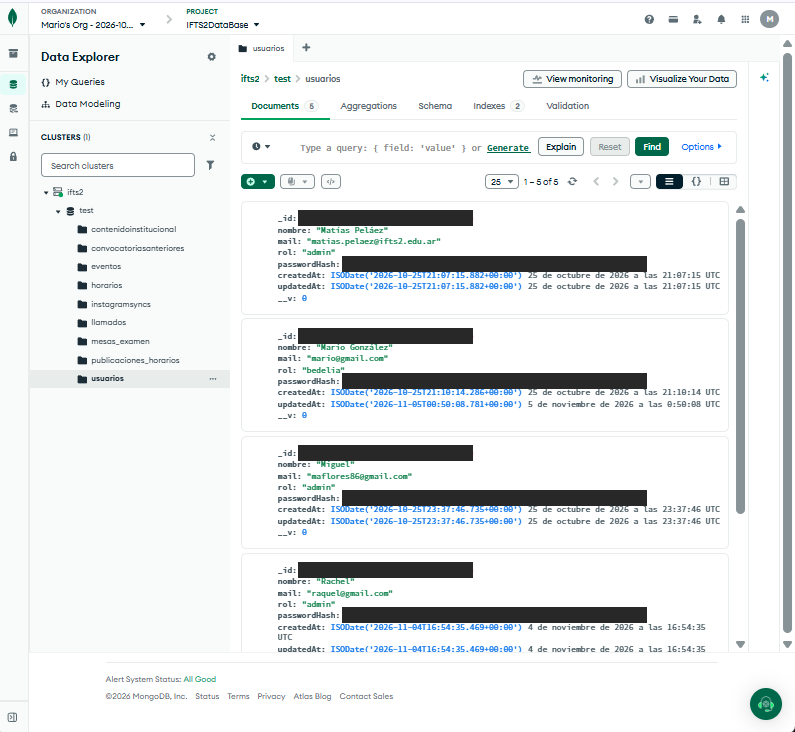
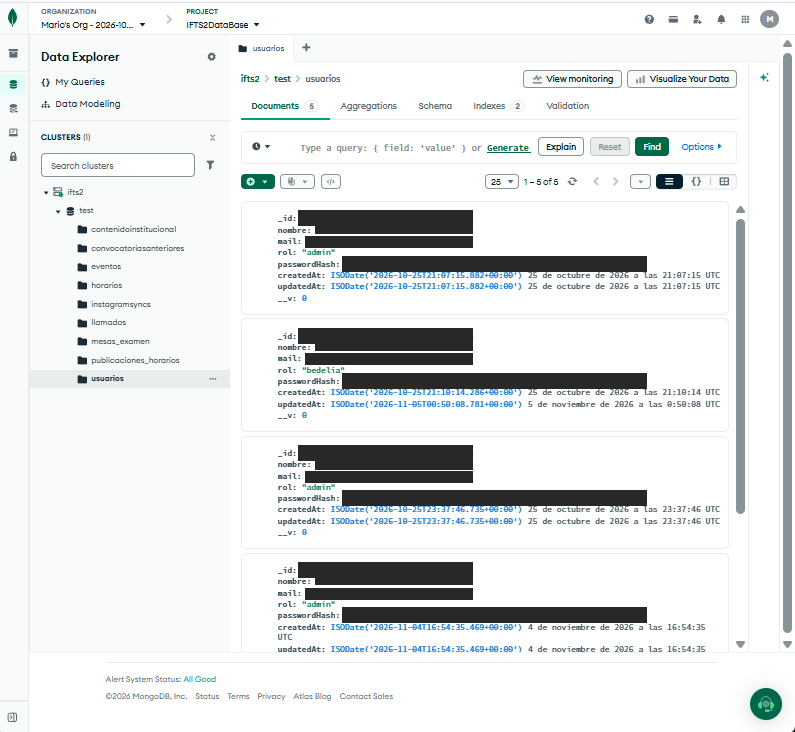
Actualiza la documentación de la base de datos (#42)
Ordena el documento en tablas, suma la captura de eventos y los campos que faltaban, aclara los respaldos y oculta los datos personales de las capturas de usuarios y contenido institucional.

diff --git a/docs/documentacion_mongodb.md b/docs/documentacion_mongodb.md
@@ -1,117 +1,155 @@
-# Documentación del Proyecto de Base de Datos - MongoDB Atlas (IFTS 2)
+# Base de datos en MongoDB Atlas: Portal Web Institucional IFTS N.º 2
 
-Este documento detalla el proceso de despliegue, configuración y la estructura de la base de datos NoSQL implementada en **MongoDB Atlas** para el sistema del **IFTS 2**.
+Este documento describe la configuración del clúster de **MongoDB Atlas** que usa el sitio desplegado (producción y vistas previas de Vercel) y la estructura de su base de datos, con capturas de la consola de Atlas. Las capturas se agregaron al repositorio el 4/11/2026 y muestran el estado de la base en ese momento.
 
----
+El modelo de datos completo (entidades, relaciones y campos de cada colección) está en el [Manual Técnico, apartado 4](./manual-tecnico.md#4-base-de-datos). En desarrollo local el sistema puede funcionar sin esta base, en modo memoria (Manual Técnico, 5.1).
 
-## 1. Despliegue y Configuración del Cluster
-
-### 1.1 Configuración Inicial (`Deploy your cluster`)
-Para el aprovisionamiento de la base de datos se seleccionó la modalidad gratuita en la nube, garantizando un entorno ideal para desarrollo y pruebas sin costes operativos.
-
-* **Nivel de Servicio (Tier):** `Free` (Gratuito)
-  * **Almacenamiento:** 512 MB
-  * **RAM / vCPU:** Compartido (Shared)
-  * **Conexiones Máximas:** 500 conexiones simultáneas
-* **Proveedor de Nube (Cloud Provider):** Amazon Web Services (AWS)
-* **Región:** `N. Virginia (us-east-1)` (Seleccionada por recomendación de baja latencia y menor huella de carbono).
-* **Ajustes de Seguridad y Datos:**
-  * Configuración de seguridad automatizada (`Automate security setup`).
-  * Sin carga de datos de ejemplo predeterminados para mantener un entorno limpio.
+<br>
 
 ---
 
-<img src="img-bbdd/bbdd_deploy_cluster.png" width="" height="" alt="deploy-bbdd-ifts-2"/>
+## 1. Despliegue y configuración del clúster
 
+### 1.1 Configuración inicial
 
-### 1.2 Vista General del Cluster (`Database Overview`)
-Una vez creado el cluster dentro del proyecto `IFTS2DataBase` (Organización `Mario's Org`), la consola principal muestra el estado operativo y las métricas de rendimiento en tiempo real:
+Se eligió el nivel gratuito M0 de Atlas, que permite alojar la base sin costo mientras se respeten los límites del servicio (Manual Técnico, 11).
 
-* **Estado:** `ACTIVE` (En funcionamiento normal).
-* **Uso de Almacenamiento:** `427.24 KB / 512 MB` (Menos del 1% del total disponible).
-* **Versión de MongoDB:** `8.0.36`.
-* **Monitoreo de Rendimiento:**
-  * **Conexiones activas:** Gráfica con picos recientes alcanzando cerca de 45 conexiones activas simultáneas.
-  * **Rendimiento de E/S (Throughput):** Métricas separadas de Lectura (`Read`) y Escritura (`Write`), registrando ráfagas de lectura de hasta $0.5\text{ ops/s}$.
+| Elemento | Valor |
+|---|---|
+| Nivel de servicio | `Free` (M0) |
+| Almacenamiento | 512 MB |
+| RAM y vCPU | Compartidas |
+| Conexiones máximas | 500 simultáneas |
+| Proveedor | Amazon Web Services (AWS) |
+| Región | `N. Virginia (us-east-1)`, marcada por Atlas como recomendada y de bajas emisiones |
+| Seguridad | Configuración automática de seguridad (`Automate security setup`) |
+| Datos de ejemplo | No se cargaron, para empezar con la base vacía |
+| Copias de seguridad | No activadas. Para M0, Atlas ofrece respaldos como suscripción paga aparte, en vista previa privada (ver 1.2 y 4) |
 
----
+La captura muestra el formulario de creación. Los nombres que figuran ahí (`ifts2bbdd` y el proyecto `ifts-2`) no son los definitivos: el clúster en uso se llama `ifts2` y está en el proyecto `IFTS2DataBase` (1.2).
 
-<img src="img-bbdd/bbdd_overview.png" width="" height="" alt="overview-bbdd-ifts-2"/>
+<img src="img-bbdd/bbdd_deploy_cluster.png" alt="Formulario de creación del clúster en MongoDB Atlas con el nivel Free seleccionado"/>
 
-## 2. Estructura de la Base de Datos y Colecciones
+### 1.2 Vista general del clúster
 
-El clúster se llama `ifts2` y la base de datos que usa el sitio se llama `test`. A través del **Data Explorer**, se identifican las siguientes colecciones estructuradas para dar soporte a la plataforma:
+El clúster `ifts2` está en el proyecto `IFTS2DataBase` de la organización `Mario's Org`. La vista general de la consola mostraba, al momento de la captura:
 
-### Colecciones Existentes:
-1. `contenidoinstitucional`
-2. `convocatoriasanteriores`
-3. `eventos`
-4. `horarios`
-5. `instagramsyncs`
-6. `llamados`
-7. `mesas_examen`
-8. `publicaciones_horarios`
-9. `usuarios`
+| Elemento | Valor |
+|---|---|
+| Estado | `ACTIVE` |
+| Almacenamiento usado | 427,24 KB de 512 MB (menos del 1 %) |
+| Versión de MongoDB | 8.0.36 |
+| Conexiones | Picos de alrededor de 45 conexiones, de un máximo de 500 |
+| Operaciones | Lecturas de hasta 0,5 operaciones por segundo |
+| Copias de seguridad | Sin activar (la consola ofrece «Enable daily backups») |
 
----
+Estos valores cambian con el uso.
 
-## 3. Análisis Detallado de Colecciones Específicas
+<img src="img-bbdd/bbdd_overview.png" alt="Vista general del clúster ifts2 en MongoDB Atlas"/>
 
-### 3.1 Colección: `usuarios`
-Almacena la información de los usuarios del sistema (usuarios con rol de Administración o Bedelía), gestionando la autenticación y los roles dentro de la plataforma.
-
-* **Ejemplo de Documento (Esquema Básico):**
-  * `_id`: `ObjectId` (Identificador único de MongoDB).
-  * `nombre`: `String` (Nombre completo del usuario, ej. *"Matías Peláez"*, *"Mario González"*, *"Miguel"*, *"Rachel"*).
-  * `mail`: `String` (Correo electrónico institucional o personal).
-  * `rol`: `String` (Nivel de acceso, ej. `"admin"`, `"bedelia"`).
-  * `passwordHash`: `String` (Hash de la contraseña con bcrypt, `$2a$10$...`).
-  * `createdAt`: `ISODate` (Fecha y hora de creación).
-  * `updatedAt`: `ISODate` (Fecha y hora de la última modificación).
-  * `__v`: `Number` (Control de versiones de Mongoose).
+<br>
 
 ---
 
-<img src="img-bbdd/bbdd_usuarios.png" width="" height="" alt="usuarios-bbdd-ifts-2"/>
+## 2. Base de datos y colecciones
 
-### 3.2 Colección: `eventos`
-Almacena los eventos del instituto: cargados manualmente desde el panel o importados desde Instagram con el botón «Sincronizar Instagram».
+La base de datos que usa el sitio se llama `test`. Es el nombre que asigna MongoDB cuando la cadena de conexión (`MONGODB_URI`) no indica una base, y así quedó configurado el despliegue. Si en el futuro se agrega un nombre a la cadena de conexión, el sistema empieza a usar una base nueva y vacía: los datos actuales quedan en `test` y hay que copiarlos antes.
 
-* **Ejemplo de Documento (Esquema Básico):**
-  * `_id`: `ObjectId`
-  * `origen`: `String` (Origen de la publicación, ej. `"instagram"`).
-  * `instagramId`: `String` (ID propio de la red social).
-  * `permalink`: `String` (Enlace directo a la publicación/reel original).
-  * `titulo`: `String` (Título descriptivo del evento o noticia).
-  * `resumen` / `descripcion` / `captionOriginal`: `String` (Textos descriptivos del evento, emoticonos y cuerpo de la publicación).
-  * `editadoPorAdmin`: `Boolean` (`false` / `true`).
-  * `fechaEvento` / `fechaPublicacionOriginal`: `ISODate`.
-  * `tipoMedio`: `String` (Tipo de contenido visual, ej. `"IMAGE"`).
-  * `fotoPrincipal`: `String` (URL almacenada en CDN/Cloudinary).
-  * `estado`: `String` (Visibilidad de la publicación, ej. `"visible"`).
-  * `categorias`: `Array` (Listado de categorías asociadas).
-  * `createdAt` / `updatedAt`: `ISODate`.
+Mongoose crea las colecciones y sus índices la primera vez que se usan (Manual Técnico, 4.4). En el **Data Explorer** de Atlas se ven estas nueve:
+
+| Colección | Contenido |
+|---|---|
+| `usuarios` | Cuentas del panel (Administración o Bedelía) |
+| `eventos` | Eventos de la galería, cargados en el panel o traídos de Instagram |
+| `horarios` | Horarios de cursada en preparación, por período |
+| `publicaciones_horarios` | Horarios publicados: lo que ven los alumnos |
+| `llamados` | Llamados de mesas de examen, con su versión publicada |
+| `mesas_examen` | Mesas de cada llamado, en preparación |
+| `contenidoinstitucional` | Secciones editables: perfil, personas, contacto, ingreso y preguntas de ingreso |
+| `convocatoriasanteriores` | Historial de convocatorias de ingreso |
+| `instagramsyncs` | Estado de la sincronización con Instagram |
+
+<br>
+
+---
+
+## 3. Detalle de colecciones
+
+Este apartado muestra tres colecciones tal como se ven en Atlas. Los campos de todas las colecciones están en el Manual Técnico, 4.2.
+
+### 3.1 Colección `usuarios`
+
+Guarda las cuentas que entran al panel y su rol.
+
+| Campo | Tipo | Contenido |
+|---|---|---|
+| `_id` | `ObjectId` | Identificador que asigna MongoDB |
+| `nombre` | `String` | Nombre que muestra el panel |
+| `mail` | `String` | Correo con el que se ingresa. Es único y se guarda en minúsculas |
+| `rol` | `String` | `admin` o `bedelia` |
+| `passwordHash` | `String` | Hash de la contraseña generado con bcrypt. No se almacena la contraseña original |
+| `createdAt`, `updatedAt` | `ISODate` | Fecha de creación y de última modificación |
+| `__v` | `Number` | Versión del documento que usa Mongoose |
+
+En la captura se ocultaron los valores de `_id`, `nombre`, `mail` y `passwordHash`. Quedan visibles los nombres de los campos y los roles.
+
+<img src="img-bbdd/bbdd_usuarios.png" alt="Colección usuarios en el Data Explorer, con los datos personales ocultos"/>
+
+### 3.2 Colección `eventos`
+
+Guarda los eventos de la galería: los cargados desde el panel y los traídos de Instagram con **Sincronizar Instagram**.
+
+| Campo | Tipo | Contenido |
+|---|---|---|
+| `_id` | `ObjectId` | Identificador que asigna MongoDB |
+| `origen` | `String` | `manual` o `instagram` |
+| `instagramId` | `String` | Identificador de la publicación en Instagram. Único |
+| `permalink`, `videoUrl` | `String` | Enlace de la publicación de Instagram. Sirven para no crear eventos repetidos |
+| `titulo`, `resumen`, `descripcion` | `String` | Textos del evento |
+| `captionOriginal` | `String` | Texto original de la publicación de Instagram |
+| `editadoPorAdmin` | `Boolean` | Indica si un evento de Instagram se editó en el panel |
+| `fechaEvento`, `fechaPublicacionOriginal` | `ISODate` | Fecha del evento y fecha de la publicación en Instagram |
+| `visibleSiempre` | `Boolean` | Permite mostrar un evento archivado por fecha (dos años o más) cuando su estado es `visible`. No cambia el estado guardado |
+| `tipoMedio` | `String` | `IMAGE`, `VIDEO` o `CAROUSEL_ALBUM` |
+| `fotoPrincipal` | `String` | Dirección de la foto de portada en Cloudinary |
+| `medios`, `cantidadMedios` | `Array`, `Number` | Fotos y videos del evento, y su cantidad |
+| `mediosQuitados` | `Array` | Registro de las fotos quitadas desde el panel |
+| `estado` | `String` | `visible` u `oculto`. El valor `archivado` queda por compatibilidad: el archivo se calcula por fecha |
+| `categorias` | `Array` | Categorías del evento |
+| `createdAt`, `updatedAt` | `ISODate` | Fecha de creación y de última modificación |
+
+La captura muestra un evento traído de Instagram.
+
+<img src="img-bbdd/bbdd_eventos.png" alt="Colección eventos en el Data Explorer, con un evento de Instagram"/>
+
+### 3.3 Colección `contenidoinstitucional`
+
+Guarda una sección editable del contenido institucional por documento. Mientras una sección no se edita desde el panel, el sitio muestra los textos por defecto y la colección no tiene ese documento.
+
+| Campo | Tipo | Contenido |
+|---|---|---|
+| `_id` | `ObjectId` | Identificador que asigna MongoDB |
+| `clave` | `String` | Sección: `perfil`, `personas`, `contacto`, `ingreso` o `ingresoPreguntas`. Única |
+| `datos` | `Object` | Contenido de la sección, validado antes de guardarse |
+| `actualizadoEn` | `ISODate` | Fecha del último cambio |
+| `actualizadoPor` | `String` | Nombre de quien guardó el último cambio, tomado de la sesión |
+
+La captura muestra la sección de ingreso, la única editada en ese momento. Se ocultó el valor de `actualizadoPor`.
+
+<img src="img-bbdd/bbdd_contenido_institucional.png" alt="Colección contenidoinstitucional en el Data Explorer, con la sección de ingreso"/>
+
+<br>
 
 ---
 
-### 3.3 Colección: `contenidoinstitucional`
-Almacena bloques de información institucionales específicos y configurables dinámicamente.
+## 4. Resumen técnico
 
-* **Ejemplo de Documento (Esquema Básico):**
-  * `_id`: `ObjectId`
-  * `clave`: `String` (Identificador clave del contenido, ej. `"ingreso"`).
-  * `actualizadoEn`: `ISODate` (Registro de última actualización).
-  * `actualizadoPor`: `String` (Nombre del usuario responsable del cambio, ej. `"Matías Peláez"`).
-  * `datos`: `Object` (Objeto embebido con la información detallada según la sección).
-
----
-<img src="img-bbdd/bbdd_contenido_institucional.png" width="" height="" alt="ont-institucional-bbdd-ifts-2"/>
-
-## 4. Resumen Técnico
-
-| Módulo / Elemento | Detalle Técnico |
-| :--- | :--- |
-| **Entorno de Hosting** | MongoDB Atlas Cloud (AWS us-east-1) |
-| **Arquitectura de Base de Datos** | Documental / NoSQL (JSON/BSON) |
-| **Seguridad de Usuarios** | Hash de contraseñas con bcrypt + Roles de acceso |
-| **Integraciones Externas** | CDN (Cloudinary) para media e integración de syncs con Instagram |
+| Elemento | Detalle |
+|---|---|
+| Alojamiento | MongoDB Atlas, nivel gratuito M0, en AWS us-east-1 |
+| Tipo de base | Documental (NoSQL), con documentos BSON |
+| Acceso | El servidor se conecta con `MONGODB_URI`, guardada en las variables de Vercel |
+| Seguridad de las cuentas | Contraseñas almacenadas como hash de bcrypt y roles `admin` y `bedelia` |
+| Imágenes | Se guardan en Cloudinary. La base guarda solo sus direcciones |
+| Instagram | La colección `instagramsyncs` guarda el estado de la sincronización |
+| Copias de seguridad | No hay respaldos automáticos activados. Para respaldos manuales se pueden usar `mongodump` y `mongorestore` (Manual Técnico, 10.1). Todavía no se comprobó una restauración (Manual Técnico, 12.4) |
